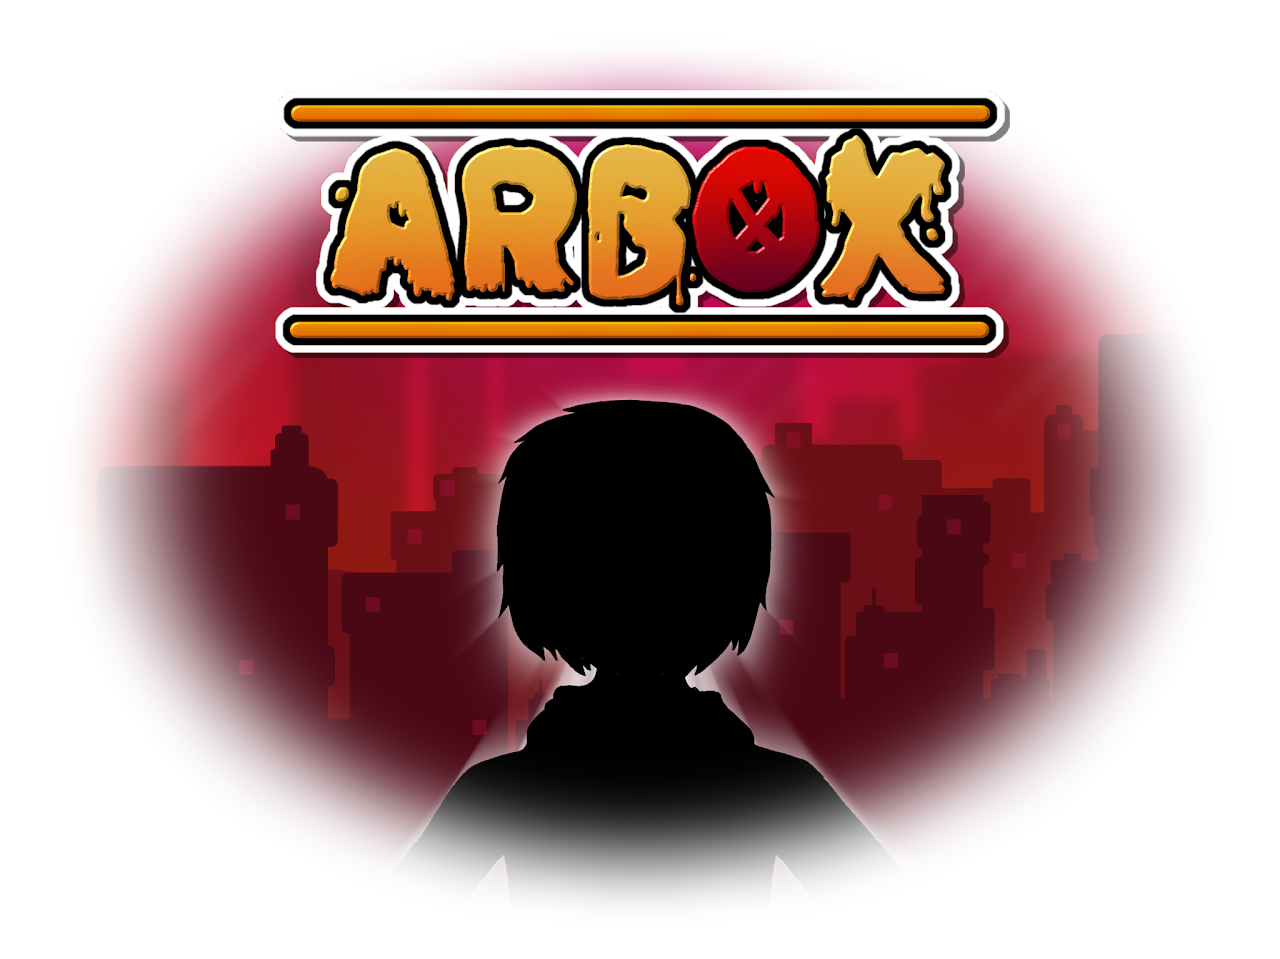
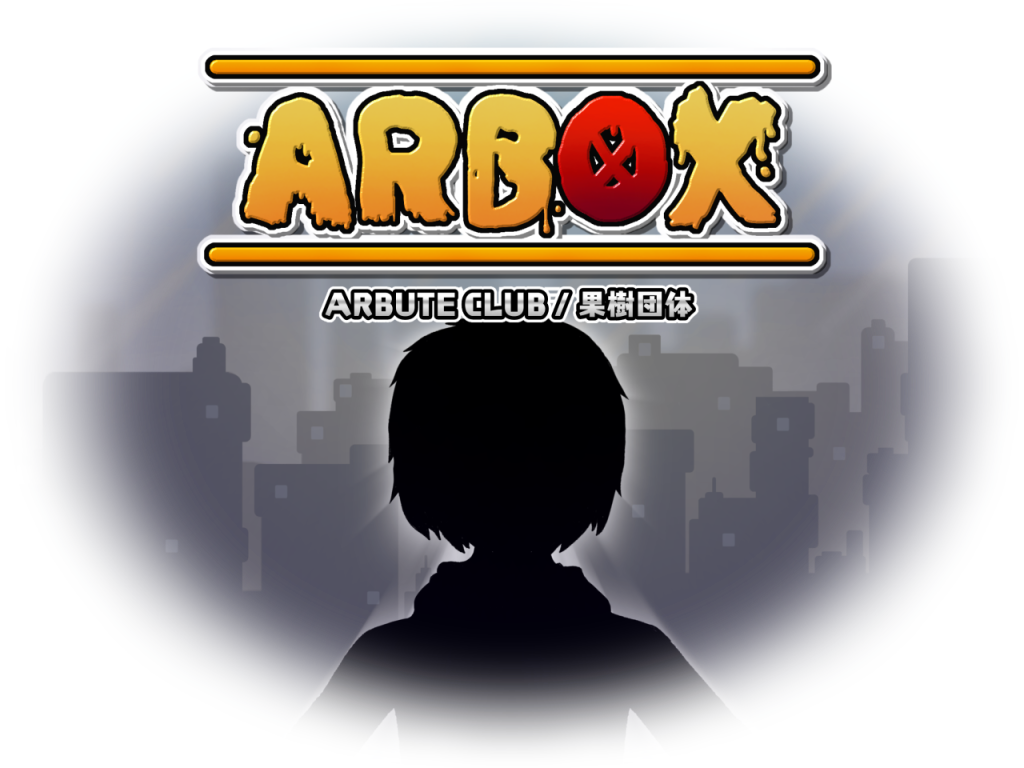
readme changes

diff --git a/README.md b/README.md
@@ -7,11 +7,10 @@ An Incredimod created by [RB-Series](https://www.youtube.com/channel/UCC3ezszbfR
 
 Feel free to check out the [changelog](https://github.com/Joalor64GH/Arbox-WebVersion/blob/desktop/CHANGELOG.md).
 
-## "What is Arbox?"
-The story of a young hero called "Mike" who has incredible skills and abilities which are powered by the sun's energy.
+## What is Arbute Club?
 
-His mission is to protect his universe with his team called "The Scarlets" from evil bosses and teams who's purposes are to destroy them and take over their universe.
+"Arbute Club" or "Arbox" is an anime that tells the story of a group with 5 boys who have special powers and abilities, whose purpose is to save their universe from evil bosses and invaders, showing all their adventures, battles, experiences and brillant encounters with many people. The full manga still in development!
 
-Along with the guide maps he'll be finding on his adventures, he will be guided little by little to his next mission and destroy the evil bosses together with his team!
+## Where does the word "Arbute" come from?
 
-✦  - The Scarlets -  ✦
+Arbute comes from the word "Arbutus" which is a fruit tree, referring to the place where The Scarletts met when they were children, which was a beautiful field with a small mountain and a giant tree full of juicy red arbutes.
